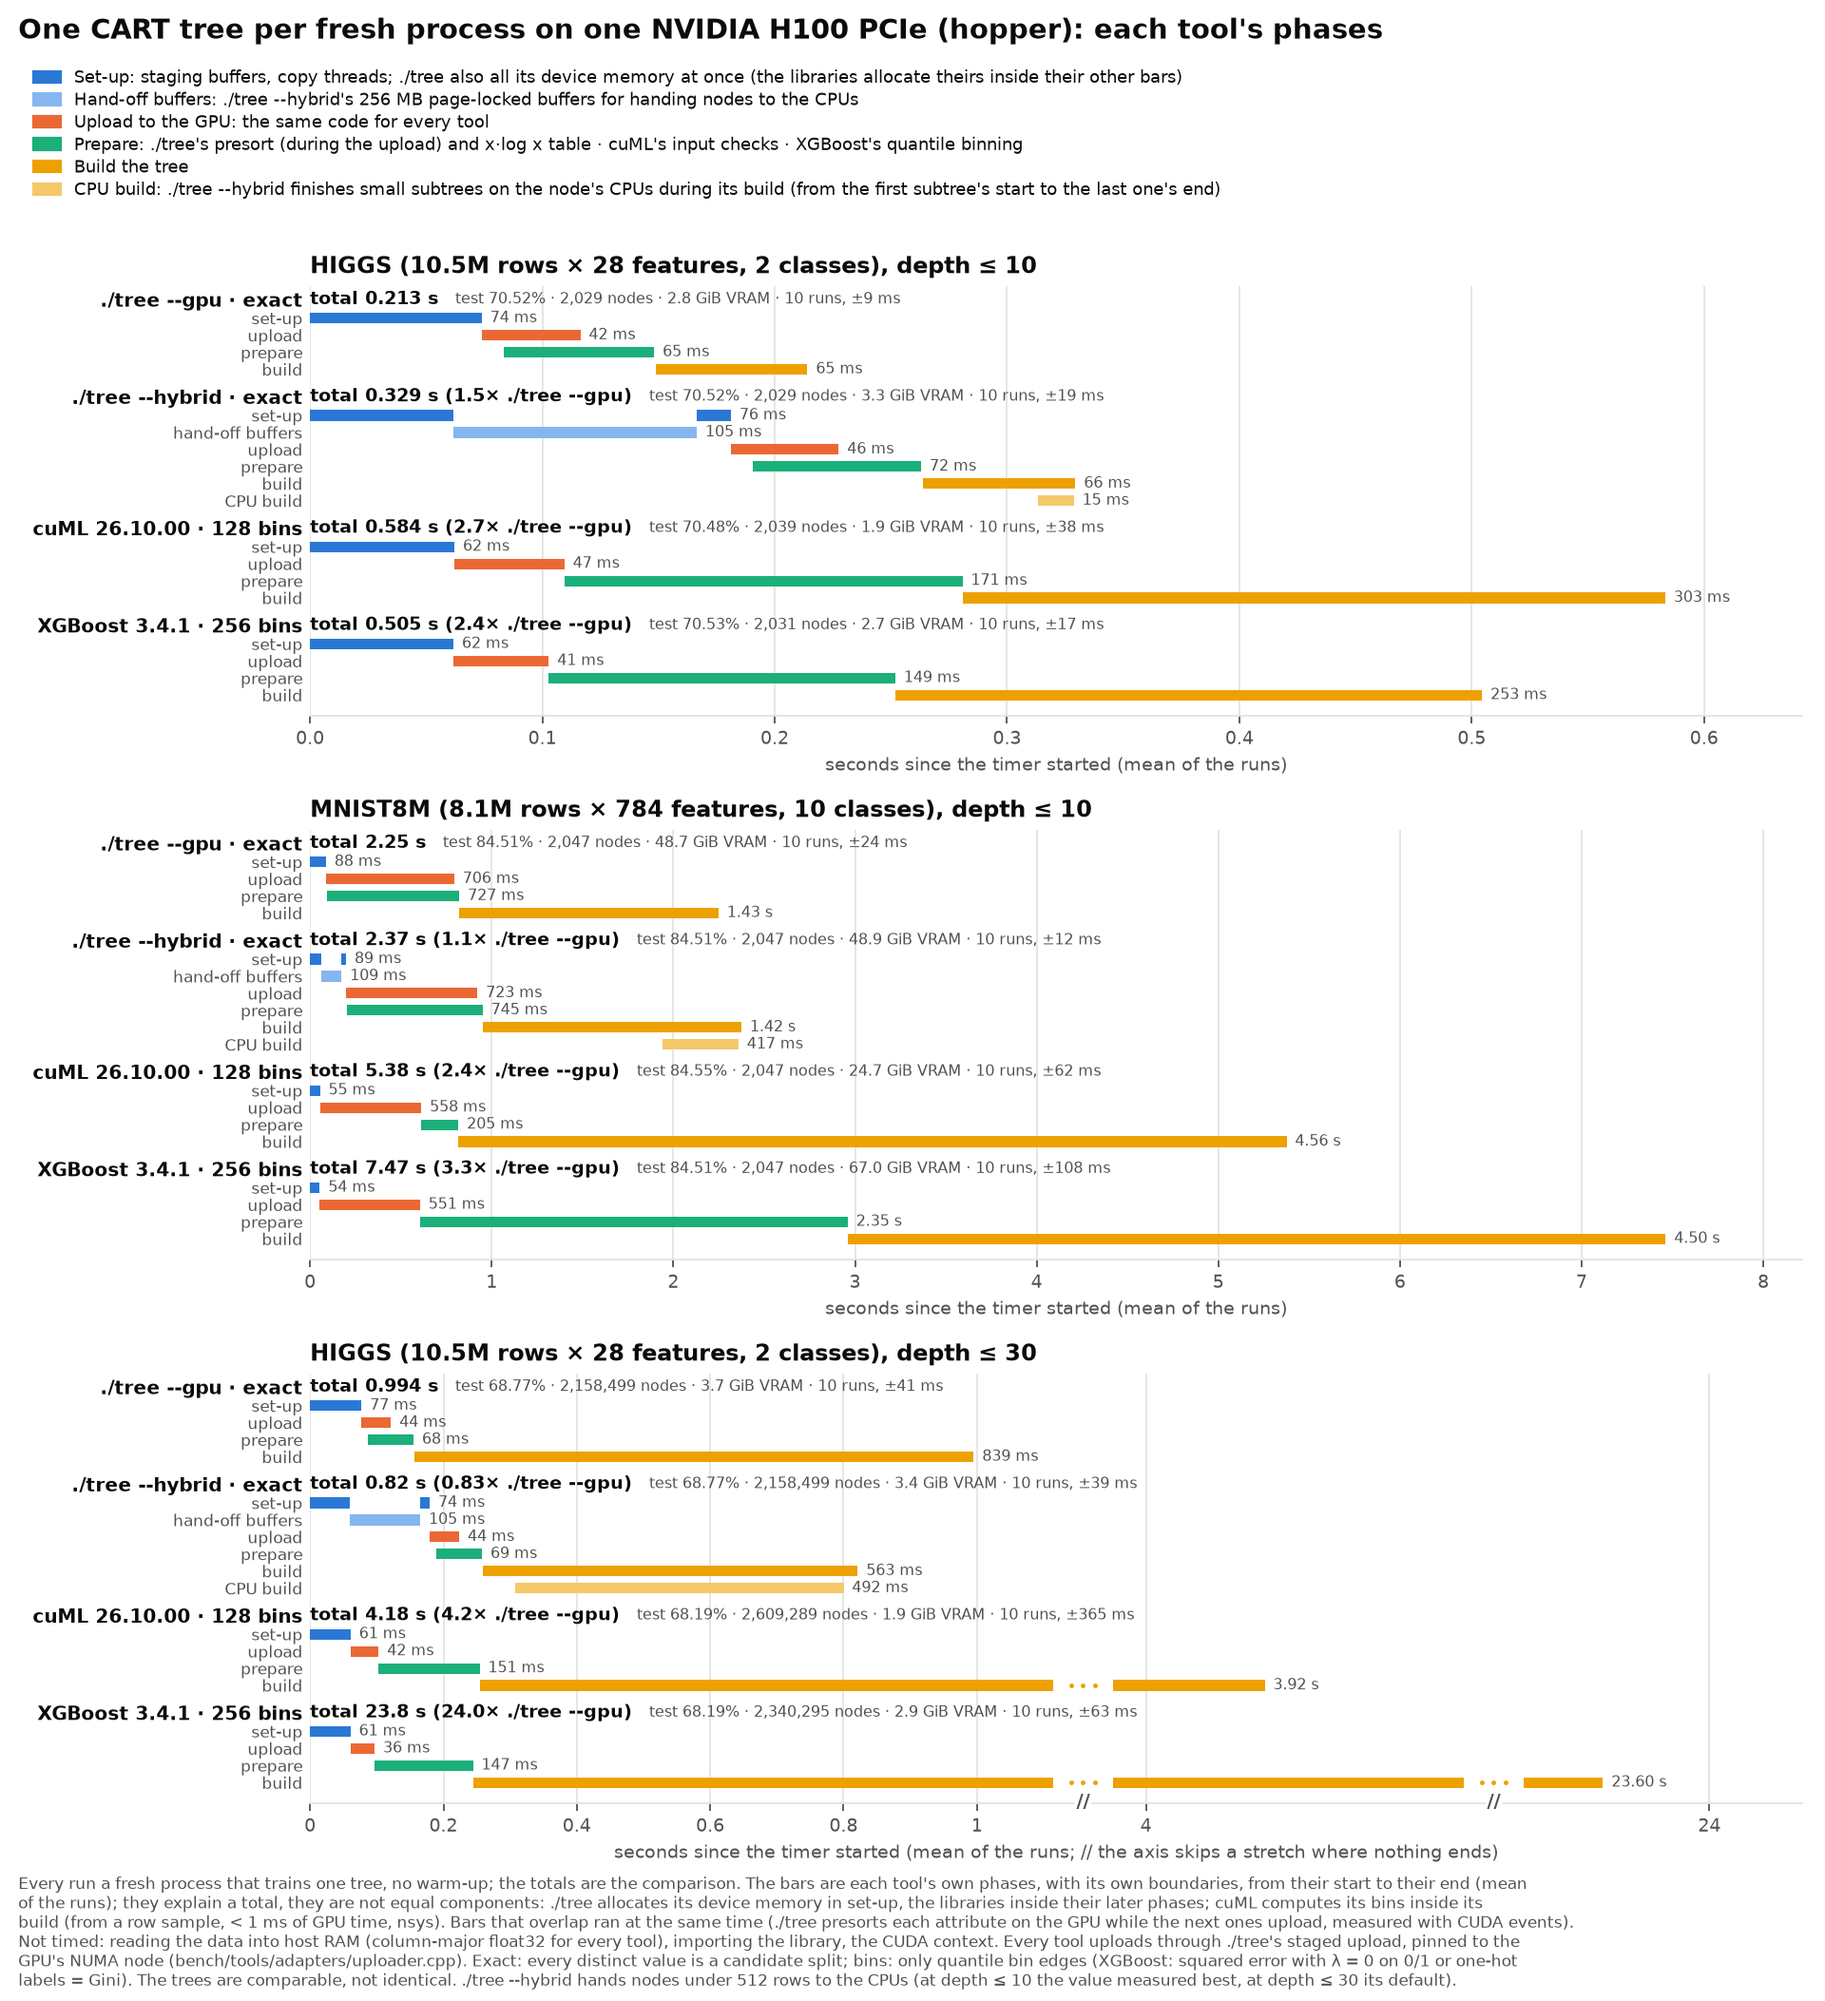
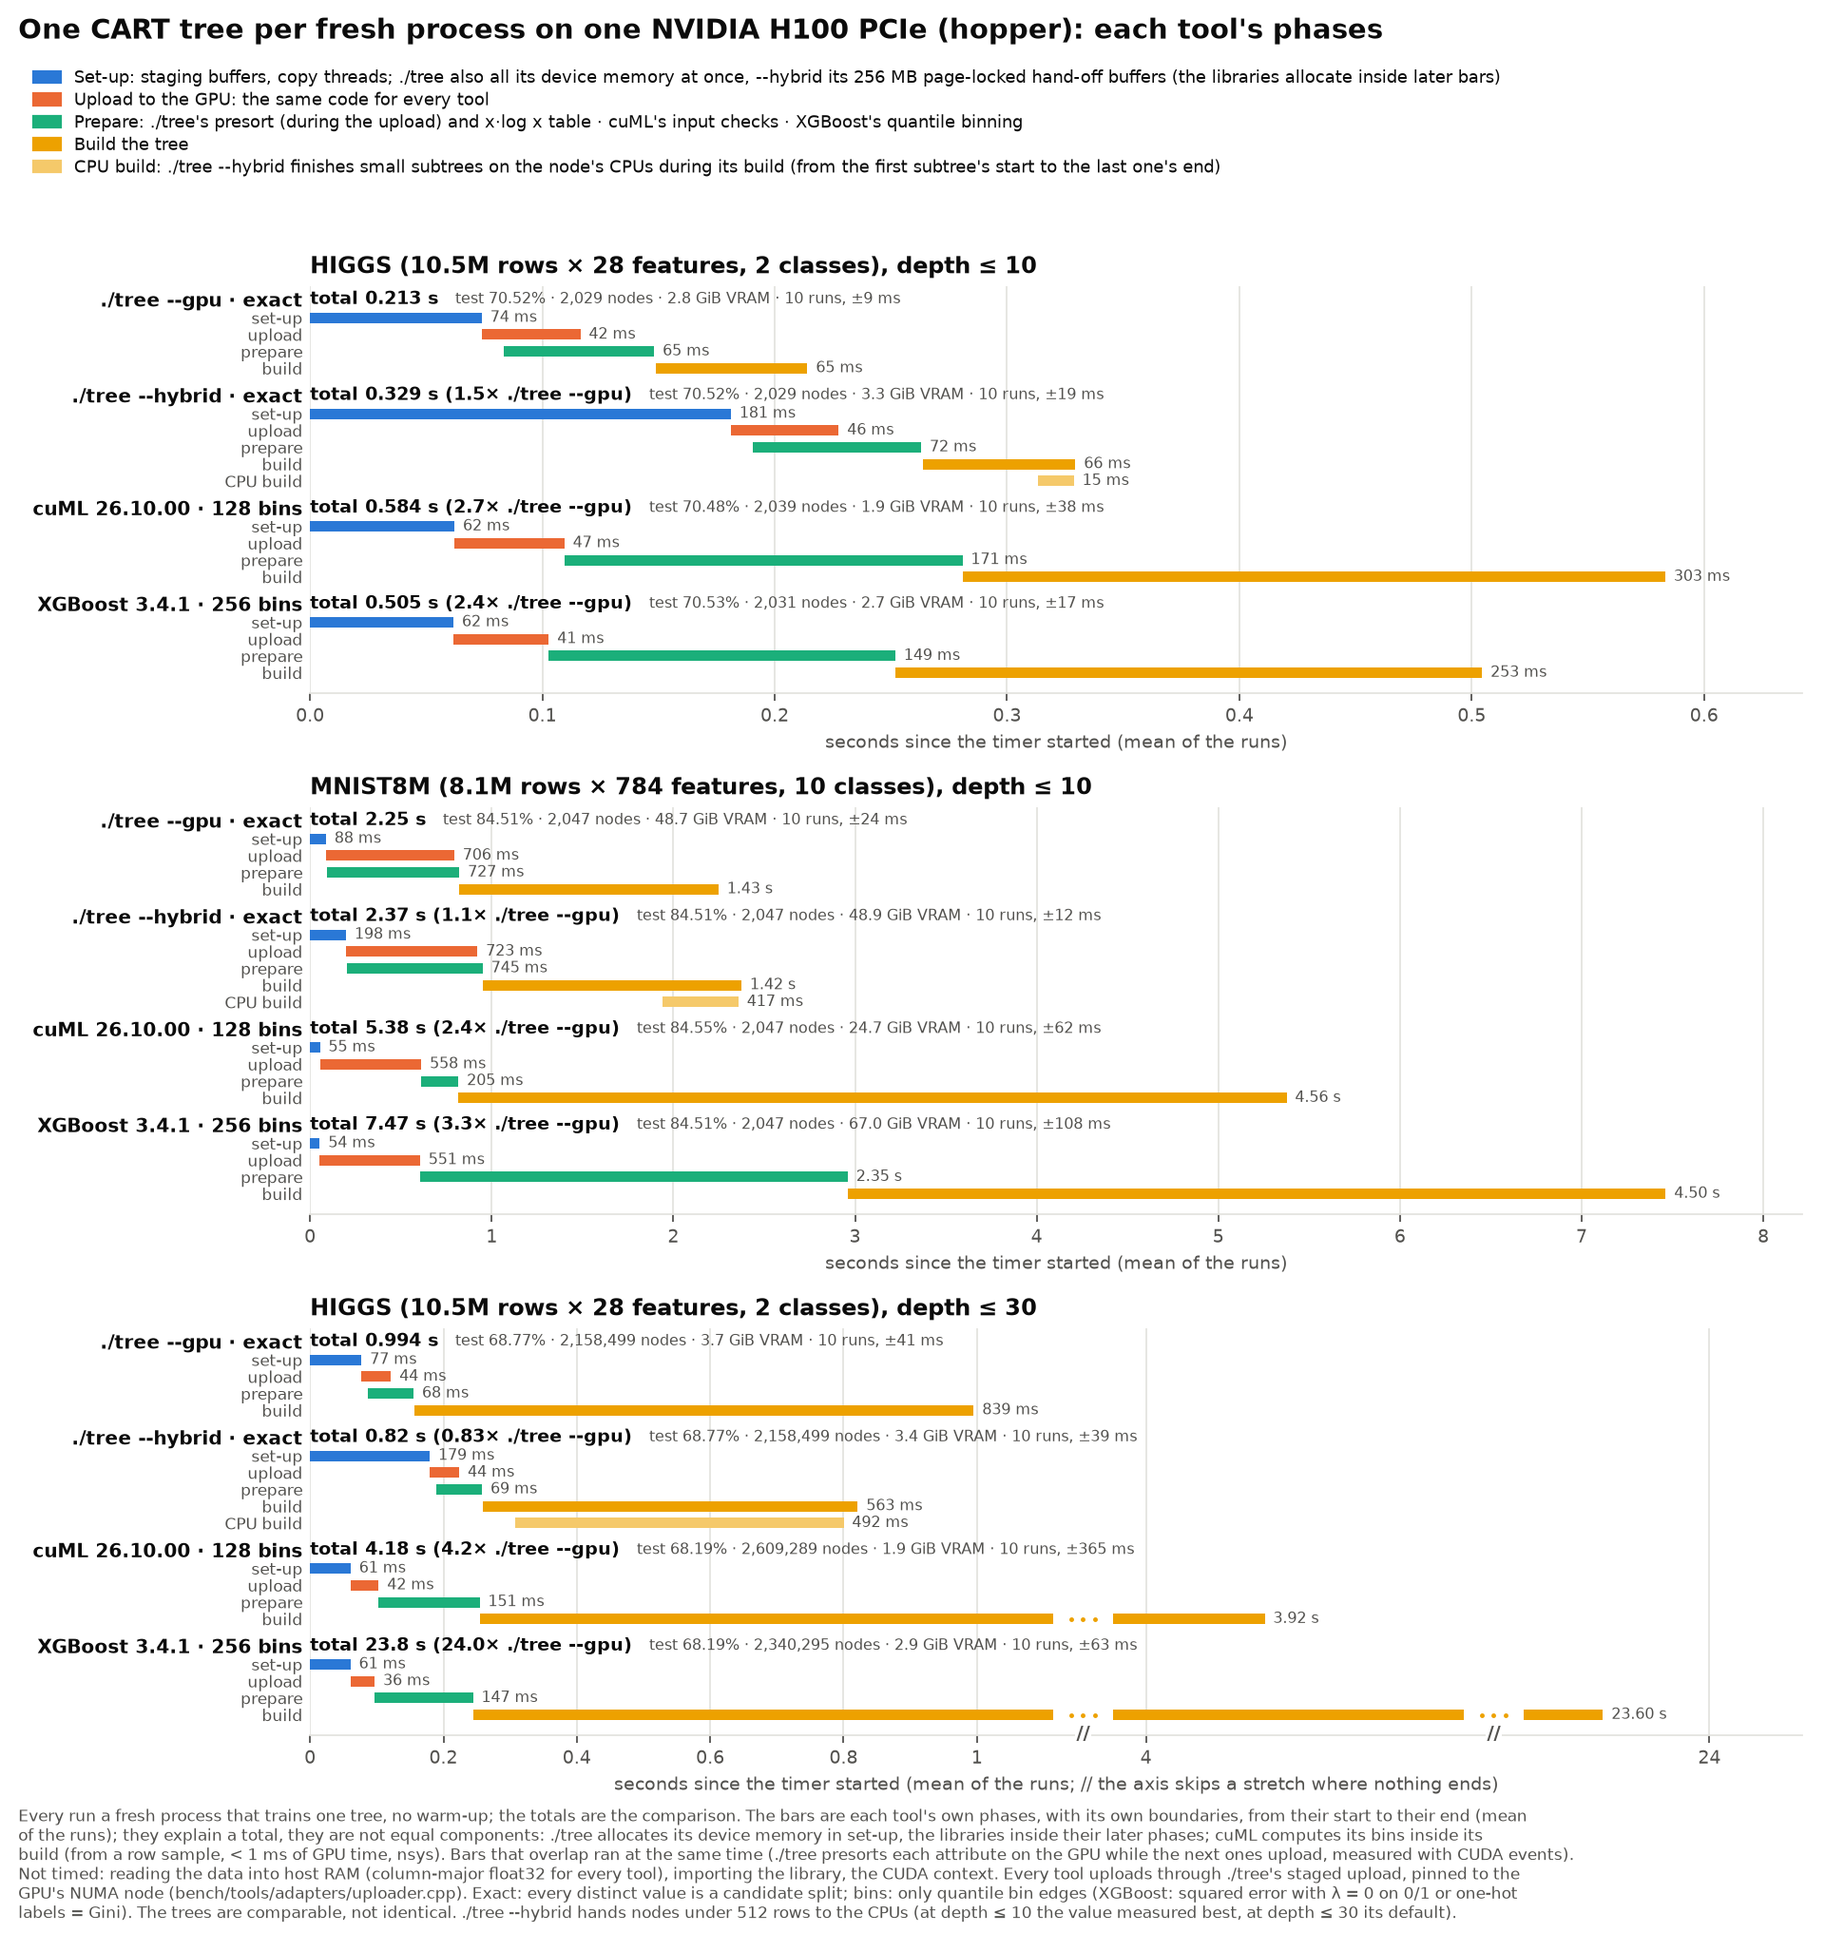
cluster-gpu-vs-others: --hybrid's hand-off buffers drawn as part of its set-up
gpu_steps_chart.py maps the hand-off buffers section into set-up (no
separate bar or legend entry); summary.csv's bar column follows. The
section tables in BENCHMARK.md keep it as its own row.

diff --git a/bench/tools/gpu_steps_chart.py b/bench/tools/gpu_steps_chart.py
@@ -1,7 +1,7 @@
 #!/usr/bin/env python3
 """cluster-gpu-vs-others: one CART tree (depth <= 10; HIGGS also <= 30) per tool on one GPU, as a
 timeline with the same bars for every tool (set-up, upload, prepare, build;
---hybrid also its hand-off buffers and CPU build), each a thin bar on its own lane from the
+--hybrid also its CPU build; its hand-off buffers are part of its set-up), each a thin bar on its own lane from the
 moment it started to the moment it ended, so bars that ran at the same time
 (./tree's presort during its upload) overlap. ./tree --gpu and --hybrid, cuML,
 XGBoost; every run a fresh process with no warm-up, all uploading through
@@ -36,11 +36,10 @@ SPLITS = {"tree_gpu_only": "exact", "tree_cuda": "exact", "cuml": "128 bins", "x
 INK, MUTED, GRID, WHITE = "#0b0b0b", "#52514e", "#e4e3df", "#ffffff"
 # The same sections for every tool; each run's detailed timeline (results.jsonl,
 # summary.csv) is merged into them. category -> (colour, legend); the reference
-# palette's slots 1-4; hand-off buffers and CPU build lighter steps of set-up's and build's
+# palette's slots 1-4; CPU build a lighter step of build's
 CATEGORIES = {
-    "set-up": ("#2a78d6", "Set-up: staging buffers, copy threads; ./tree also all its device memory at once "
-                          "(the libraries allocate theirs inside their other bars)"),
-    "hand-off buffers": ("#86b6ef", "Hand-off buffers: ./tree --hybrid's 256 MB page-locked buffers for handing nodes to the CPUs"),
+    "set-up": ("#2a78d6", "Set-up: staging buffers, copy threads; ./tree also all its device memory at once, "
+                          "--hybrid its 256 MB page-locked hand-off buffers (the libraries allocate inside later bars)"),
     "upload": ("#eb6834", "Upload to the GPU: the same code for every tool"),
     "prepare": ("#1baf7a", "Prepare: ./tree's presort (during the upload) and x·log x table · cuML's input checks · "
                            "XGBoost's quantile binning"),
@@ -50,7 +49,7 @@ CATEGORIES = {
 }
 # a recorded section -> the bar it is drawn in
 BAR_OF = {
-    "staging buffers": "set-up", "device memory": "set-up", "hand-off buffers": "hand-off buffers",
+    "staging buffers": "set-up", "device memory": "set-up", "hand-off buffers": "set-up",
     "upload": "upload",
     "presort (GPU)": "prepare", "x log x table": "prepare", "x log x table copy": "prepare",
     "input checks": "prepare", "quantile binning": "prepare", "free raw copy": "prepare",

diff --git a/bench/cluster-gpu-vs-others/BENCHMARK.md b/bench/cluster-gpu-vs-others/BENCHMARK.md
@@ -48,7 +48,7 @@ bench/tools/cluster/charts.sh             # among them gpu_steps_chart.py: chart
 | build | 823–2,249 | 951–2,375 | 817–5,375 | 2,960–7,463 |
 | CPU build (subtrees) | | 1,941–2,359 | | |
 
-**The chart** draws the same phase names for every tool, each with that tool's boundaries: set-up, upload, prepare, build; `--hybrid` also its hand-off buffers (the whole difference between `--hybrid` and `--gpu`) and its CPU build. ./tree's sections are merged into them: set-up = staging buffers + device memory; prepare = the presort + the x·log x table and its copy. A phase in pieces that do not touch (`--hybrid`'s set-up, before and after its hand-off buffers) is drawn in pieces, labelled with their sum. The depth ≤ 30 panel's axis skips the stretches where nothing ends (// on the axis, ··· in the bars that cross them): 0–1.1 s at full scale, then short windows around cuML's end (4.5 s) and XGBoost's (23.8 s).
+**The chart** draws the same phase names for every tool, each with that tool's boundaries: set-up, upload, prepare, build; `--hybrid` also its CPU build. ./tree's sections are merged into them: set-up = staging buffers + device memory (`--hybrid`: + its hand-off buffers, the whole difference between its set-up and `--gpu`'s); prepare = the presort + the x·log x table and its copy. A phase in pieces that do not touch would be drawn in pieces, labelled with their sum. The depth ≤ 30 panel's axis skips the stretches where nothing ends (// on the axis, ··· in the bars that cross them): 0–1.1 s at full scale, then short windows around cuML's end (4.5 s) and XGBoost's (23.8 s).
 
 - **Totals:** `./tree --gpu` trains its exact tree 2.4–2.7× faster than cuML and 2.4–3.3× faster than XGBoost, from the same host data through the same upload. The libraries' upload reaches 46 GB/s on MNIST8M (HIGGS's 1.2 GB is too short a copy for full speed).
 - **Where the time goes:** most of the libraries' time is in their build (cuML 302 ms and 4.56 s, XGBoost 253 ms and 4.50 s, against ./tree's 65 ms and 1.43 s) and in XGBoost's binning. These phases are not like for like: cuML's build also allocates its working memory, and ./tree's build starts from columns already presorted.
@@ -143,7 +143,7 @@ cuML needs its own venv (`GPU_PYTHON`, default `~/gpu-dt-bench/venv/bin/python`;
 
 | File | Content |
 |---|---|
-| `chart.png` | HIGGS and MNIST8M at depth ≤ 10, HIGGS at depth ≤ 30: each tool's phases (set-up, hand-off buffers, upload, prepare, build, CPU build) on a timeline, with total, test accuracy, nodes, VRAM and spread (`bench/tools/gpu_steps_chart.py`) |
+| `chart.png` | HIGGS and MNIST8M at depth ≤ 10, HIGGS at depth ≤ 30: each tool's phases (set-up, upload, prepare, build, CPU build) on a timeline, with total, test accuracy, nodes, VRAM and spread (`bench/tools/gpu_steps_chart.py`) |
 | `summary.csv` | one row per dataset, depth limit, tool and recorded section (with the bar it is drawn in): mean start, end and length and the tool's total (mean, standard deviation, min, max), VRAM, test accuracy, nodes, commit |
 | `one-tree/vs-hopper-<dataset>[-depth30]/` | the run folders: `results.jsonl` (every run of every tool, each step's time), `plan.json`, `machine.json`, `run.log`, and `report.md`, `runs.csv`, `summary.csv` from `bench/tools/report.py` |
 
